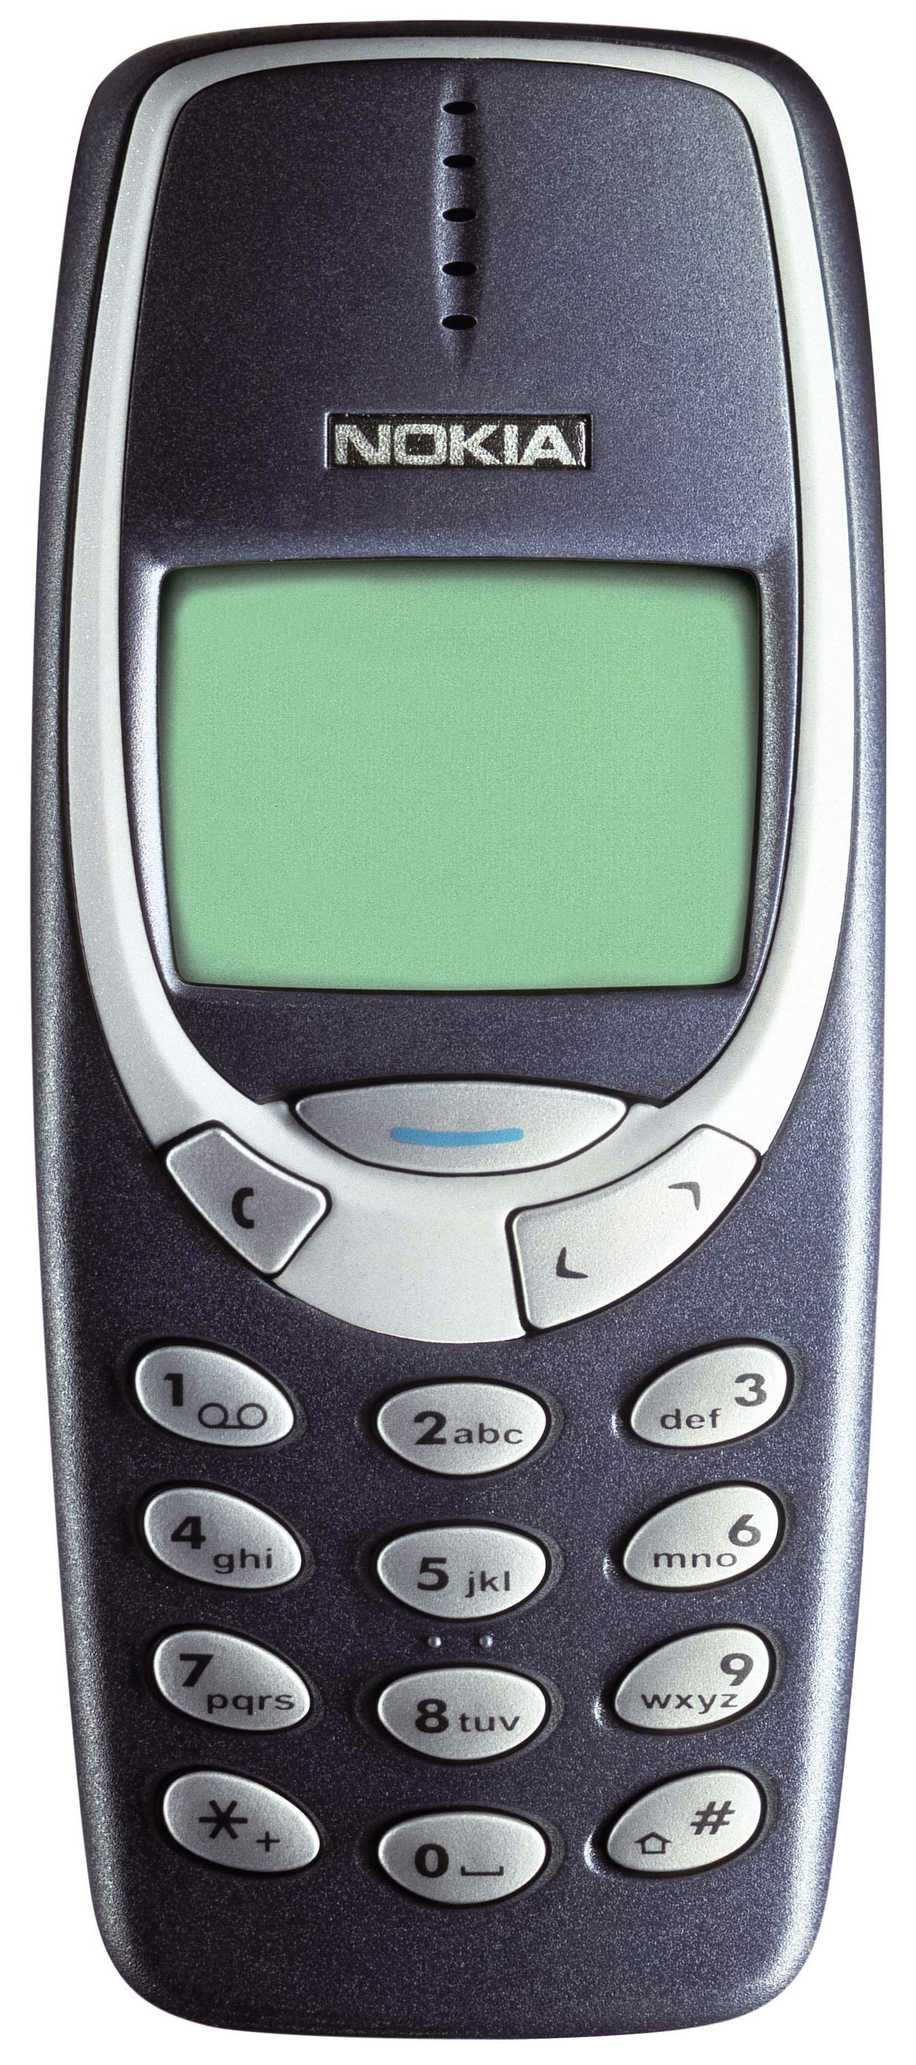
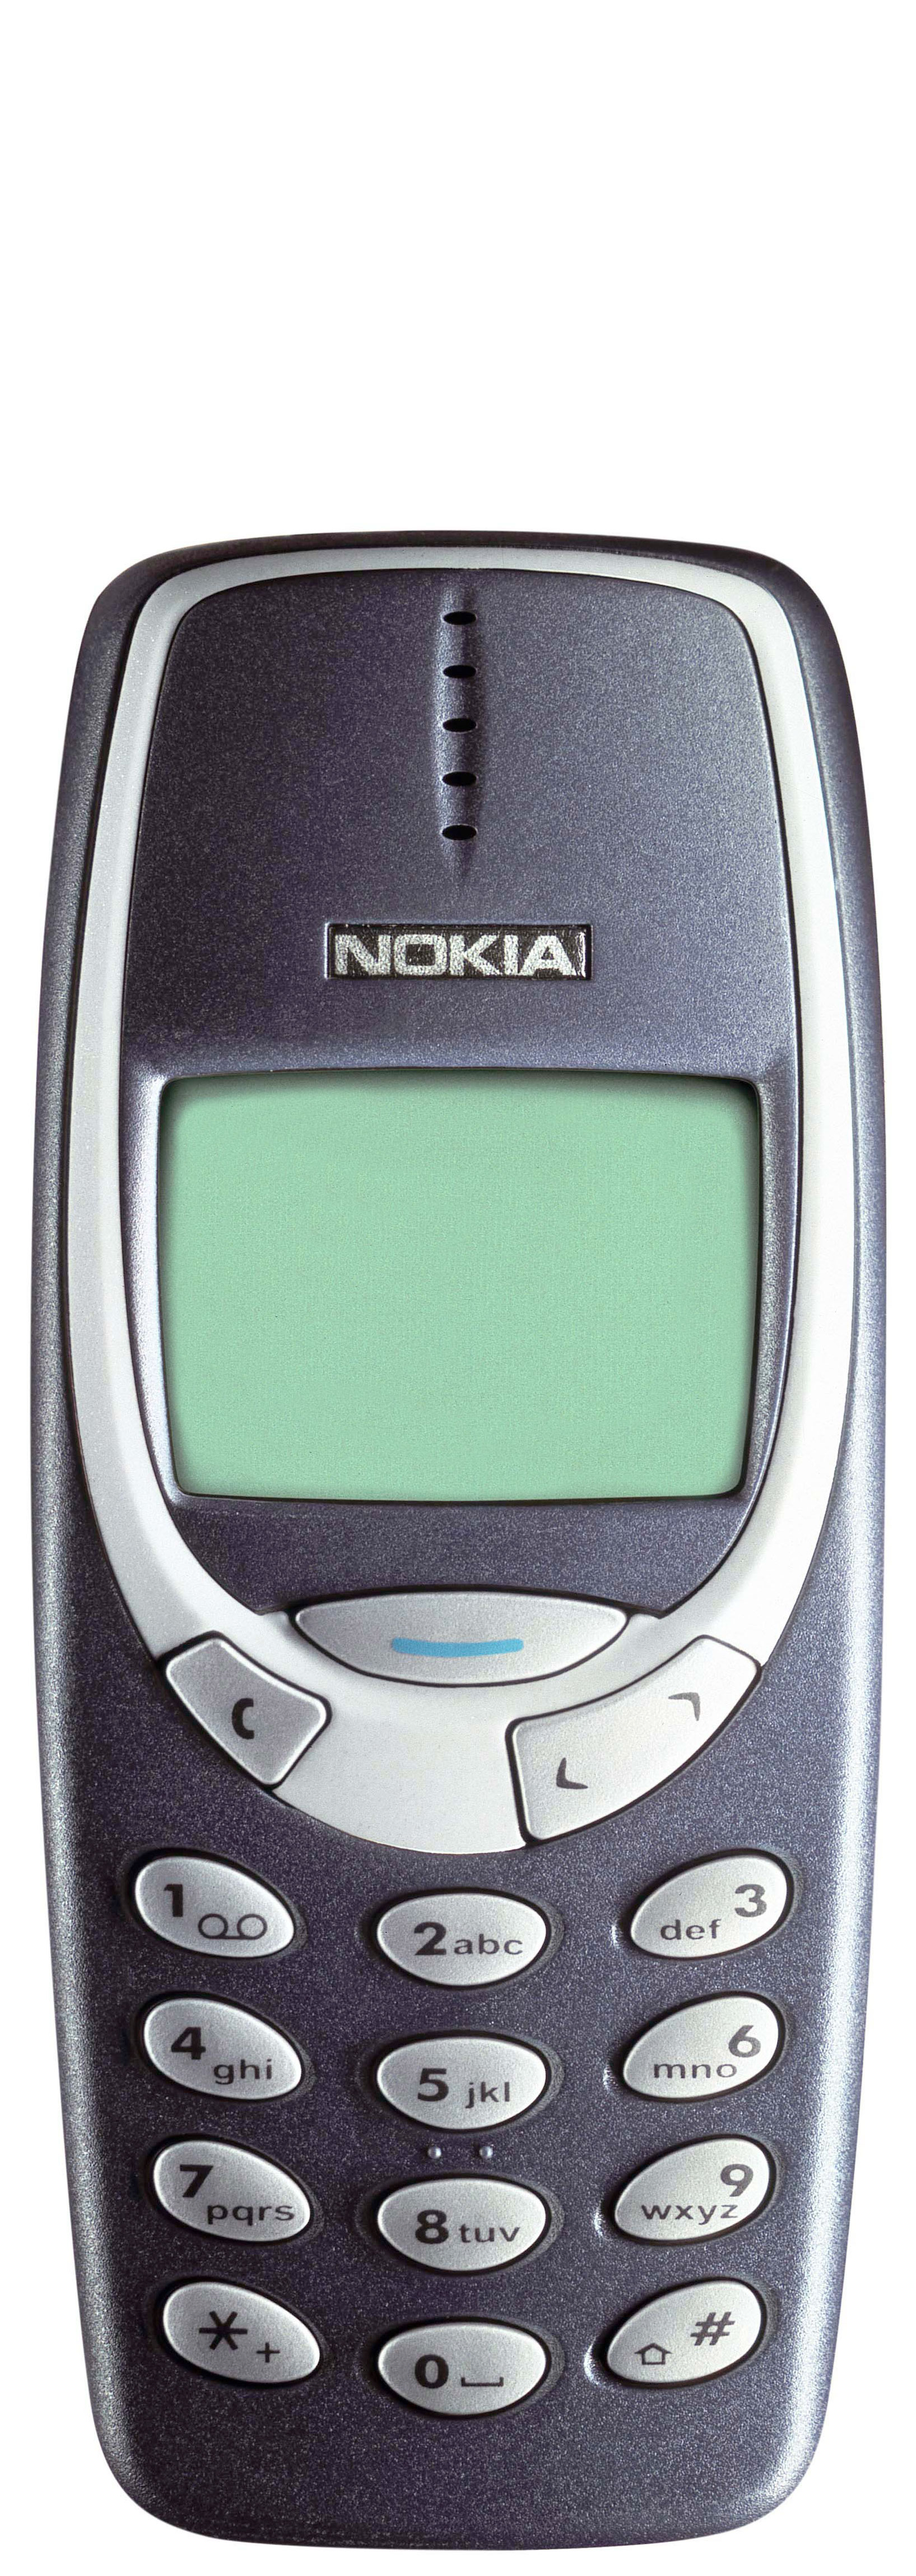
Position Fix.

diff --git a/public/assets/style/style.css b/public/assets/style/style.css
@@ -15,8 +15,8 @@ p {
 }
 #game {
   margin-left: -300px;
-  margin-top: -25px;
-  top: 30%;
+  margin-top: -200px;
+  top: 50%;
   left: 50%;
   position: absolute;
   height: 400px;
@@ -64,7 +64,7 @@ p {
   background-image: url("../img/Nokia_3310_empty.jpg");
   background-size: 1000px auto;
   background-repeat: no-repeat;
-  background-position: center 30%;
+  background-position: center 50%;
   width: 100%;
   height: 100%;
 }
